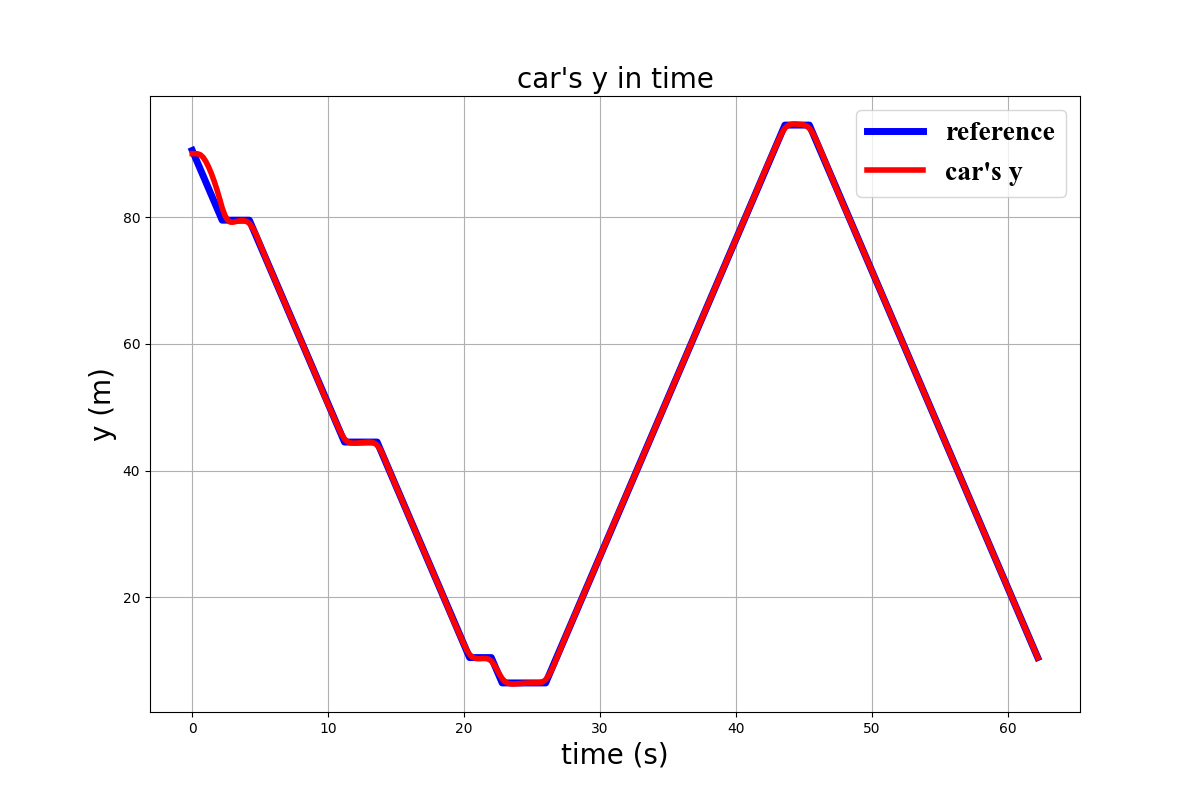
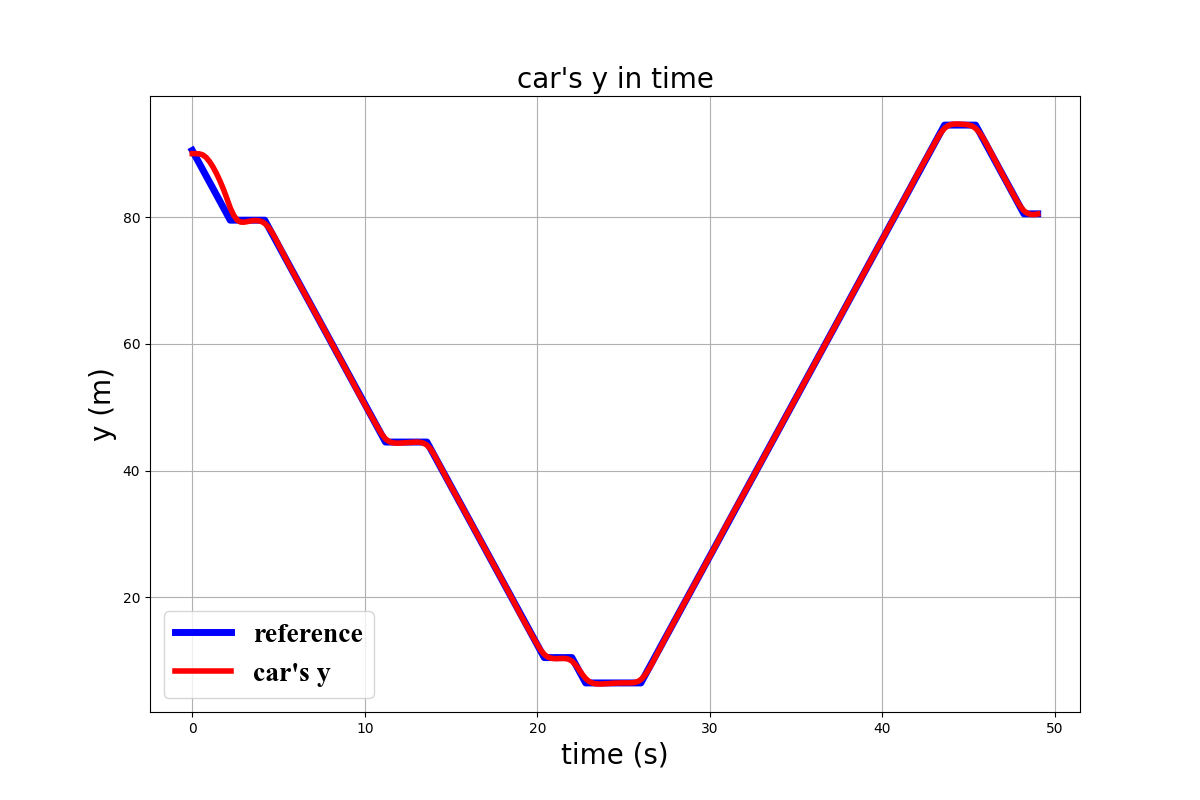
gg.com

diff --git a/control_v4.py b/control_v4.py
@@ -3,7 +3,7 @@ from scipy.optimize import minimize
 import copy
 import math
 import bisect
-# from environment_v3 import Environment, Parking1
+#from environment_v4 import Environment, Parking1
 
 
 class Car_Dynamics:
@@ -32,51 +32,75 @@ class Car_Dynamics:
         self.v = self.state[2,0] #update the velocity
         self.psi = self.state[3,0] #update the angle
         
-    def limit_sensor(self, x, y):
+    def limit_sensor(self, x, y):#if matrix was what I thought it was
         """
         Limit Sensor Range
         """
-        if x < 5:
-            x = 5
-        elif x > 105:
-            x = 105
+        if x < 0:
+            x = 0
+        elif x > 100:
+            x = 100
+        else:
+            x=x
         
-        if y < 5:
-            y = 5
-        elif y> 105:
-            y = 105
+        if y < 0:
+            y = 0
+        elif y> 100:
+            y = 100
+        else:
+            y=y
 
         return x,y
     
-    '''
-    def binary_search(self, lst, item):
-        # Assuming lst is a sorted list of lists (or tuples) and item is also a list (or tuple)
-        left, right = 0, len(lst) - 1
-        while left <= right:
-            mid = (left + right) // 2
-            if lst[mid] < item:
-                left = mid + 1
-            elif lst[mid] > item:
-                right = mid - 1
-            else:
-                return True  # Item found
-        return False  # Item not found
-    '''
 
-    def process_sensor_data(self, car_x, car_y, environment, obstacles, empty_spaces, distance=20):
+    def process_sensor_data(self, car_x, car_y, og_obstacles, distance):
         """
         Process sensor data to update the environment and re-plan the path if necessary.
         sensor_data: list of tuples containing obstacle positions relative to the car's position
         """
+        more_empty_spaces = []
+        more_obstacles = []
+
         for y in range(int(car_y-(distance/2)), int(car_y+(distance/2 + 1))):
             for x in range (int(car_x-(distance/2)), int(car_x+(distance/2 + 1))):
-                x , y = self.limit_sensor(x,y)
-                if environment[y][x] == False and [y,x] in empty_spaces:
-                    empty_spaces.append([y,x])
-                elif environment[y][x] == True and [y,x] not in obstacles:
-                    obstacles.append([y,x])
-        return obstacles
+                new_x , new_y = self.limit_sensor(x,y)
+                #if using path_planner.a_star.obstacle_map
+                
+                #new_x+=5
+                #new_y+=5
+
+                if og_obstacles[new_y][new_x] == False:
+                    more_empty_spaces.append([new_y,new_x])
+
+                elif og_obstacles[new_y-5][new_x-5] == True:
+                    more_obstacles.append([new_y-5,new_x-5])       
+
+                '''
+                #new_x-=5
+                #new_y-=5
+                #using env_obs
+                if [new_y,new_x] not in og_obstacles:
+                    more_empty_spaces.append([new_y,new_x])
+                    print('mek')
+                elif [new_y,new_x] in og_obstacles:
+                    more_obstacles.append([new_y,new_x])
+                    #print('kfc')
+                '''      
+        return more_empty_spaces, more_obstacles
+
+    def sensor_update(self, car_x, car_y, og_obstacles, obstacles, empty_spaces, distance):
+        extra_empty_spaces, extra_obstacles = self.process_sensor_data(car_x, car_y, og_obstacles, distance)
+        for empty_space in extra_empty_spaces:
+            if empty_space not in empty_spaces:
+                empty_spaces = np.append(empty_spaces, [empty_space], axis=0)
+                #empty_spaces.append(empty_space)
+        for obstacle in extra_obstacles:
+            if not any((obstacle == o).all() for o in obstacles):
+                #np.append(obstacles,obstacle)
+                obstacles = np.append(obstacles, [obstacle], axis=0)
+
     
+
     def find_key_by_value(self, dictionary, target_value):
         for key, value in dictionary.items():
             if value == target_value:
@@ -85,8 +109,10 @@ class Car_Dynamics:
     
     def detect_empty_parking(self, car_positions, empty_spaces):
         #check if the parking slot is empty
-        for car in car_positions:
-            return car in empty_spaces
+        for cars in car_positions:
+            for car in cars:
+                print(car in empty_spaces)
+                return car in empty_spaces
 
 
 #To optimise steering based off wheere you want to go    

diff --git a/main_autopark_v5.py b/main_autopark_v5.py
@@ -33,18 +33,18 @@ if __name__ == '__main__':
     random_emptyslot = np.random.randint(-10,24)
     parking1 = Parking1(24,original_end) # random parking slot selection ## of can be args.parking
     end,car_obs,env_obs = parking1.generate_obstacles() #car_obs is what car can see and env_obs is what see
-    original_car_obs = car_obs.copy()
+    original_env_obs = env_obs.copy()
 
  
     # Adding of obstables to the environment
     square1 = make_square(10,65,20)
     square2 = make_square(15,30,20)
     square3 = make_square(50,50,10)
-    env_obs = np.vstack([env_obs,square1,square2,square3])
-    car_obs = np.vstack([car_obs,square1,square2,square3]) ####TO CHANGE BACK TO CAR_OBS
+    env_obs = np.vstack([env_obs,square1,square2,square3]) 
     new_obs = np.array([[78,78],[79,79],[78,79]])
     env_obs = np.vstack([env_obs,new_obs])
-    car_obs = np.vstack([car_obs,new_obs])
+    detected_empty_spaces = [[0,90]]
+    detected_obstacles = np.array(parking1.walls)
     #############################################################################################
 
     ########################### initialization for map and car ##################################################
@@ -61,7 +61,7 @@ if __name__ == '__main__':
     #############################################################################################
     
     ############################# path planning to Original Goal ###############################
-    path_planner = ParkPathPlanning(car_obs) #path planner class to take in the obstacles visible to the car only
+    path_planner = ParkPathPlanning(detected_obstacles) #path planner class to take in the obstacles visible to the car only
     print('routing to end of carpark ...') 
     path = path_planner.plan_path(int(start[0]),int(start[1]),int(original_end[0]),int(original_end[1])) #path planning
     env.draw_path(path)
@@ -70,17 +70,21 @@ if __name__ == '__main__':
     obstacle_found = False #boolean to check if obstacle is found
     counter = 0 #counter to check if car can park
     print('driving to destination ...')
-    detected_empty_spaces = [[0,90]]
-    detected_obstacles = np.array(parking1.walls)
 
-    while len(path) > 0: #while path is not empty
+
+    while my_car.state[0][0]!=original_end[0] and my_car.state[1][0]!=original_end[1]: #while path is not empty
 
         acc, delta = controller.optimize(my_car, path[:MPC_HORIZON]) #get acc and delta from controller of the first 5 points in path
         my_car.update_state(my_car.move(acc,  delta)) #update car state
 
         #my_car.sensor_update(my_car.x, my_car.y, original_car_obs, detected_obstacles, detected_empty_spaces, 20)
+        old_obstacles = detected_obstacles
+        old_empty_spaces = detected_empty_spaces
         my_car.sensor_update(my_car.x, my_car.y, path_planner.a_star.obstacle_map, detected_obstacles, detected_empty_spaces, 30)
-        
+
+        if not np.all(old_obstacles == detected_obstacles):
+            path = path_planner.plan_path(int(start[0]),int(start[1]),int(original_end[0]),int(original_end[1]))
+    
         res = env.render(my_car.x, my_car.y, my_car.psi, delta) #render environment of the car 
         logger.log(path[0], my_car, acc, delta) #log the data of car
         cv2.imshow('environment', res) #show the environment of car
@@ -88,8 +92,8 @@ if __name__ == '__main__':
         if path[0][0] -0.5 == original_end[0] and path[0][1] -0.5 == original_end[1]:
             print('~ No parking slots found, driver to take over ~')
             break
-        #print(len(detected_empty_spaces))
-        #print(len(detected_obstacles))
+        print(len(detected_empty_spaces))
+        print(len(detected_obstacles))
         #TEWSITNTSNT SFWSDSDWEER
         if my_car.detect_empty_parking(list(parking1.cars.values()), detected_empty_spaces): ###TESTTTT NEEDD TO BE REPLACED WHEN CAN PARK IS TRUE
             can_park = True #set can_park to true

diff --git a/environment_v4.py b/environment_v4.py
@@ -98,14 +98,12 @@ class Parking1:
                      [[i,90] for i in range(70,76) ] #+ [[i,20] for i in range(-5,50)]
         # self.car_obs = np.array(self.walls)  #create an obstacle
         self.env_obs = np.array(self.walls) #obstacles for env to draw
-        self.car_obs = []
         self.cars = {1 : [[35,20]], 2 : [[65,20]], 3 : [[75,20]], 4 : [[95,20]],
                      5 : [[35,32]], 6 : [[65,32]], 7 : [[75,32]], 8 : [[95,32]],
                      9 : [[35,44]], 10: [[65,44]], 11: [[75,44]], 12: [[95,44]],
                      13: [[35,56]], 14: [[65,56]], 15: [[75,56]], 16: [[95,56]],
                      17: [[35,68]], 18: [[65,68]], 19: [[75,68]], 20: [[95,68]],
                      21: [[35,80]], 22: [[65,80]], 23: [[75,80]], 24: [[95,80]]} #parking slots location
-        self.empty_spaces = []
         self.parking_slots ={1 : True, 2 : True, 3 : True, 4 : True,
                             5 : True, 6 : True, 7 : True, 8 : True,
                             9 : True, 10: True, 11: True, 12: True,
@@ -119,16 +117,25 @@ class Parking1:
         else:
             self.end =  end
 
-    def generate_obstacles(self):#changed this and removed self.car_obs completely from this
+    def generate_obstacles(self):
         for i in self.cars.keys():
             for j in range(len(self.cars[i])):
                 obstacle = self.car_obstacle + self.cars[i] #adding car obstacles to the environment
                 self.env_obs = np.append(self.env_obs, obstacle) #adding car obstacles to the environment
         self.env_obs = np.array(self.env_obs).reshape(-1,2) #convert 1 column array to 2 column array
-        return self.end, self.env_obs
+        self.car_obs = self.env_obs #FSFBFEFIBFEIB
+        return self.end, self.car_obs, self.env_obs
 
     def make_car(self): #to make car obstacle
         car_obstacle_x, car_obstacle_y = np.meshgrid(np.arange(-2,2), np.arange(-4,4)) #create a meshgrid of car obstacle
         car_obstacle = np.dstack([car_obstacle_x, car_obstacle_y]).reshape(-1,2) # add x and y coordinates together and store in 2 columns
         return car_obstacle
     
+    '''
+    def proper_walls(self,walls):
+        new_walls = walls.copy()
+        for wall in range(len(walls)):
+            new_walls[wall][0]=walls[wall][0]+5
+            new_walls[wall][1]=walls[wall][1]+5
+        return new_walls
+    '''

diff --git a/main_autopark_v3.py b/main_autopark_v3.py
@@ -1,5 +1,6 @@
 import cv2
 import numpy as np
+import matplotlib.pyplot as plt
 from time import sleep
 import argparse
 import random
@@ -33,6 +34,9 @@ if __name__ == '__main__':
     random_emptyslot = np.random.randint(-10,24)
     parking1 = Parking1(24,original_end) # random parking slot selection ## of can be args.parking
     end,car_obs,env_obs = parking1.generate_obstacles() #car_obs is what car can see and env_obs is what see
+    print(end)
+    print(car_obs)
+    print(env_obs)
 
 
  
@@ -45,6 +49,8 @@ if __name__ == '__main__':
     new_obs = np.array([[78,78],[79,79],[78,79]])
     env_obs = np.vstack([env_obs,new_obs])
     car_obs = np.vstack([car_obs,new_obs])
+    print(car_obs)
+    print(env_obs)
     #############################################################################################
 
     ########################### initialization for map and car ##################################################
@@ -62,7 +68,7 @@ if __name__ == '__main__':
     
     ############################# path planning to Original Goal ###############################
     path_planner = ParkPathPlanning(car_obs) #path planner class to take in the obstacles visible to the car only
-    print('routing to end of carpark ...') 
+
     path = path_planner.plan_path(int(start[0]),int(start[1]),int(original_end[0]),int(original_end[1])) #path planning
     env.draw_path(path)
     ################################## Travel to Original Goal ##################################################

diff --git a/pathplanning_V4.py b/pathplanning_V4.py
@@ -2,7 +2,7 @@ import numpy as np
 import math
 import scipy.interpolate as scipy_interpolate
 from utils import angle_of_line
-# from control_v3 import Car_Dynamics, MPC_Controller, Linear_MPC_Controller
+from control_v4 import Car_Dynamics, MPC_Controller, Linear_MPC_Controller
 
 ############################################## Functions ######################################################
 
@@ -101,7 +101,6 @@ class AStarPlanner:
 
             # Check if the current node is the goal
             if current_node.x == self.goal.x and current_node.y == self.goal.y:
-                print("Goal reached.")
                 self.goal.parent_index = current_node.parent_index
                 self.goal.cost = current_node.cost
                 break
@@ -128,9 +127,7 @@ class AStarPlanner:
 
         # Reconstruct the final path from the goal node to the start node
         path_x, path_y = self.calc_final_path(self.goal, closed_set)
-        print(self.min_y, self.max_y)
         return path_x, path_y
-
 
     def calc_final_path(self, goal_node, closed_set):
         # generate final course
@@ -258,7 +255,6 @@ class ParkPathPlanning:
         ry = np.array(ry)-self.margin+0.5
         path = np.vstack([rx,ry]).T #transpose to [x,y] format
         return path[::-1] #return path in reverse order
-
 
     # def update_q_table(self, state, action, reward, next_state):
     #     alpha = 0.5  # learning rate
